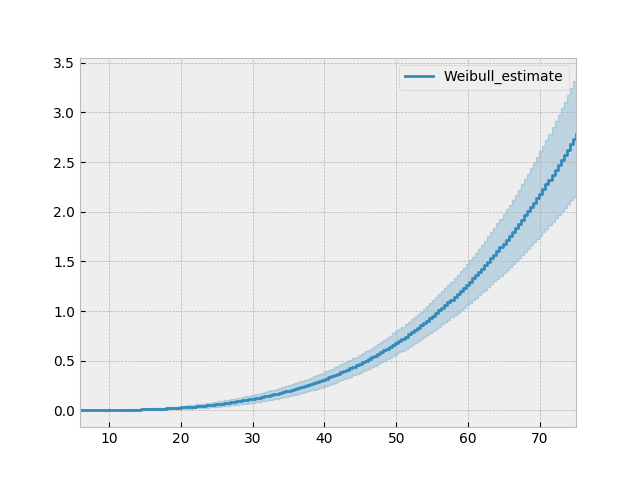
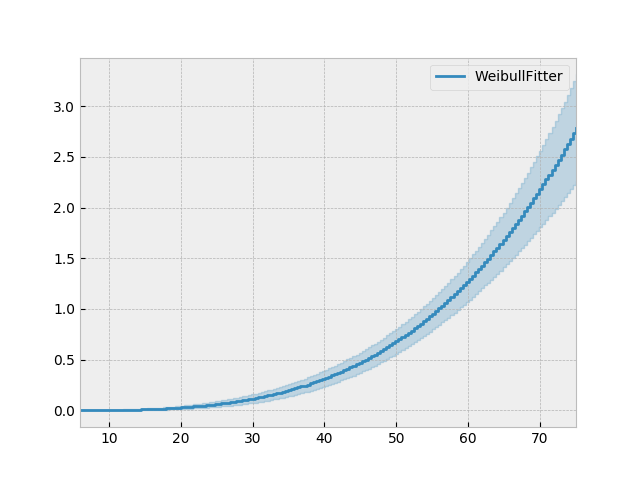
lint

diff --git a/lifelines/fitters/log_normal_fitter.py b/lifelines/fitters/log_normal_fitter.py
@@ -1,11 +1,10 @@
 # -*- coding: utf-8 -*-
 from __future__ import print_function
-import time
 import numpy as np
 import pandas as pd
 import warnings
 import autograd.numpy as autograd_np
-from autograd import jacobian, hessian, elementwise_grad as egrad
+from autograd import hessian, value_and_grad
 from autograd.scipy.stats import norm as autograd_norm
 from scipy.stats import norm
 from numpy.linalg import inv
@@ -33,12 +32,12 @@ def _negative_log_likelihood(params, log_T, E):
     Z = (log_T - mu) / sigma
     cdf = autograd_norm.cdf(Z, loc=0, scale=1)
     cdf = autograd_np.clip(cdf, 1e-15, 1 - 1e-15)
-    log_sf = autograd_np.log(1-cdf)
+    log_sf = autograd_np.log(1 - cdf)
 
     log_pdf = autograd_norm.logpdf(Z, loc=0, scale=1)
 
     ll = (E * (log_pdf - log_T - autograd_np.log(sigma) - log_sf)).sum() + log_sf.sum()
-    return -ll/n 
+    return -ll / n
 
 
 class LogNormalFitter(UnivariateFitter):
@@ -62,7 +61,14 @@ class LogNormalFitter(UnivariateFitter):
     """
 
     def fit(
-        self, durations, event_observed=None, timeline=None, label="LogNormal_estimate", alpha=0.95, ci_labels=None
+        self,
+        durations,
+        event_observed=None,
+        timeline=None,
+        label="LogNormal_estimate",
+        alpha=0.95,
+        ci_labels=None,
+        show_progress=False,
     ):  # pylint: disable=too-many-arguments
         """
         Parameters
@@ -113,11 +119,10 @@ class LogNormalFitter(UnivariateFitter):
         self._label = label
 
         (self.mu_, self.log_sigma_), self._log_likelihood, self._hessian_ = self._fit_model(
-            self.durations, self.event_observed
+            self.durations, self.event_observed, show_progress=show_progress
         )
         self.sigma_ = np.exp(self.log_sigma_)
         self.variance_matrix_ = inv(self._hessian_)
-
 
         self.survival_function_ = self.survival_function_at_times(self.timeline).to_frame(name=self._label)
         self.hazard_ = self.hazard_at_times(self.timeline).to_frame(name=self._label)
@@ -160,40 +165,31 @@ class LogNormalFitter(UnivariateFitter):
         """
         return pd.Series(1 - norm.cdf((log(times) - self.mu_) / self.sigma_), index=_to_array(times))
 
-    @staticmethod
-    def _cumulative_hazard_(params, t):
-        mu_, log_sigma_ = params
-        Z = (autograd_np.log(t) - mu_) / autograd_np.exp(log_sigma_)
-        cdf = autograd_norm.cdf(Z, loc=0, scale=1)
-        x = -autograd_np.log(1 - cdf)
-        return x
-
     def cumulative_hazard_at_times(self, times):
-        return pd.Series(self._cumulative_hazard_([self.mu_, self.log_sigma_], times), index=_to_array(times))
+        return pd.Series(-log(1 - norm.cdf((log(times) - self.mu_) / self.sigma_)), index=_to_array(times))
 
-    def _fit_model(self, T, E, initial_values=None):
+    def _fit_model(self, T, E, initial_values=None, show_progress=False):
         if initial_values is None:
             initial_values = np.array([log(T).mean(), np.log(np.log(T).std())])
 
-        n = T.shape[0]
+        with warnings.catch_warnings():
+            warnings.simplefilter("ignore")
 
-        jac = jacobian(_negative_log_likelihood)
-        hess =  hessian(_negative_log_likelihood)
-        
-        results = minimize(
-            _negative_log_likelihood,
-            initial_values,
-            jac=jac,
-            hess= hess,
-            method='Newton-CG',
-            args=(log(T), E),
-            options={'disp': False}
-        )  
+            results = minimize(
+                value_and_grad(_negative_log_likelihood),
+                initial_values,
+                jac=True,
+                method="CG",
+                args=(log(T), E),
+                options={"disp": show_progress},
+            )
 
-        if results.success:
-            hessian_ = hess(results.x, log(T), E)
-            return results.x, -results.fun, hessian_ * n
-        raise ConvergenceError("Did not converge. This is a lifelines problem, not yours;")
+            if results.success:
+                hess = hessian(_negative_log_likelihood)
+                hessian_ = hess(results.x, log(T), E)
+                return results.x, -results.fun, hessian_ * T.shape[0]
+            print(results)
+            raise ConvergenceError("Did not converge. This is a lifelines problem, not yours;")
 
     @property
     def summary(self):
@@ -247,10 +243,10 @@ class LogNormalFitter(UnivariateFitter):
         print(df.to_string(float_format=format_floats(decimals), formatters={"p": format_p_value(decimals)}))
 
     def _compute_standard_errors(self):
-        var_mu_, var_log_sigma_ = self.variance_matrix_.diagonal()
         grad_h_beta = np.array([0, self.sigma_])
         var_sigma_ = grad_h_beta.dot(self.variance_matrix_).dot(grad_h_beta.T)
 
+        var_mu_, _ = self.variance_matrix_.diagonal()
         return pd.DataFrame([[np.sqrt(var_mu_), np.sqrt(var_sigma_)]], index=["se"], columns=["mu_", "sigma_"])
 
     def _compute_confidence_bounds_of_parameters(self):
@@ -273,11 +269,25 @@ class LogNormalFitter(UnivariateFitter):
     def _bounds(self, alpha, ci_labels):
         alpha2 = inv_normal_cdf((1.0 + alpha) / 2.0)
         df = pd.DataFrame(index=self.timeline)
-        import pdb
-        pdb.set_trace()
-        gradient_at_mle = jacobian(self._cumulative_hazard_)(np.array([self.mu_, self.log_sigma_]), self.timeline)
 
-        std_cumulative_hazard = np.sqrt(np.einsum('nj,jk,nk->n', gradient_at_mle, self.variance_matrix_, gradient_at_mle))
+        def _d_cumulative_hazard_d_mu(mu_, log_sigma_, log_T):
+            Z = (log_T - mu_) / np.exp(log_sigma_)
+            return -norm.pdf(Z) / norm.sf(Z) / np.exp(log_sigma_)
+
+        def _d_cumulative_hazard_d_log_sigma(mu_, log_sigma_, log_T):
+            Z = (log_T - mu_) / np.exp(log_sigma_)
+            return -Z * norm.pdf(Z) / norm.sf(Z)
+
+        gradient_at_mle = np.stack(
+            [
+                _d_cumulative_hazard_d_mu(self.mu_, self.log_sigma_, log(self.timeline)),
+                _d_cumulative_hazard_d_log_sigma(self.mu_, self.log_sigma_, log(self.timeline)),
+            ]
+        ).T
+
+        std_cumulative_hazard = np.sqrt(
+            np.einsum("nj,jk,nk->n", gradient_at_mle, self.variance_matrix_, gradient_at_mle)
+        )
 
         if ci_labels is None:
             ci_labels = ["%s_upper_%.2f" % (self._label, alpha), "%s_lower_%.2f" % (self._label, alpha)]

diff --git a/lifelines/fitters/weibull_fitter.py b/lifelines/fitters/weibull_fitter.py
@@ -1,15 +1,14 @@
 # -*- coding: utf-8 -*-
 from __future__ import print_function, division
 import warnings
-import time
 import numpy as np
 import pandas as pd
 import autograd.numpy as autograd_np
-from autograd import hessian, jacobian
-from scipy.optimize import minimize, check_grad
+from autograd import hessian, value_and_grad
+from scipy.optimize import minimize
 
 from scipy import stats
-from numpy.linalg import solve, norm, inv
+from numpy.linalg import inv
 from lifelines.fitters import UnivariateFitter
 from lifelines.utils import (
     _to_array,
@@ -17,19 +16,21 @@ from lifelines.utils import (
     check_nans_or_infs,
     ConvergenceError,
     string_justify,
-    ConvergenceWarning,
     format_p_value,
     format_floats,
 )
 
 
-
 def _negative_log_likelihood(lambda_rho, T, E):
     if np.any(np.asarray(lambda_rho) < 0):
-        return 10e9
+        return 1e9
     n = T.shape[0]
     lambda_, rho = lambda_rho
-    neg_ll = -autograd_np.log(rho * lambda_) * E.sum() - (rho - 1) * (E * autograd_np.log(lambda_ * T)).sum() + ((lambda_ * T) ** rho).sum()
+    neg_ll = (
+        -autograd_np.log(rho * lambda_) * E.sum()
+        - (rho - 1) * (E * autograd_np.log(lambda_ * T)).sum()
+        + ((lambda_ * T) ** rho).sum()
+    )
     return neg_ll / n
 
 
@@ -75,7 +76,7 @@ class WeibullFitter(UnivariateFitter):
         label="Weibull_estimate",
         alpha=None,
         ci_labels=None,
-        show_progress=True,
+        show_progress=False,
     ):  # pylint: disable=too-many-arguments
         """
         Parameters
@@ -129,24 +130,19 @@ class WeibullFitter(UnivariateFitter):
         alpha = alpha if alpha is not None else self.alpha
 
         # estimation
-        (self.lambda_, self.rho_), self._log_likelihood, self._hessian_ = self._newton_rhaphson(
+        (self.lambda_, self.rho_), self._log_likelihood, self._hessian_ = self._fit_model(
             self.durations, self.event_observed, show_progress=show_progress
         )
         self.variance_matrix_ = inv(self._hessian_)
 
-        print("here1")
         self.survival_function_ = self.survival_function_at_times(self.timeline).to_frame(name=self._label)
-        print("here2")
 
         self.hazard_ = self.hazard_at_times(self.timeline).to_frame(self._label)
-        print("here3")
 
         self.cumulative_hazard_ = self.cumulative_hazard_at_times(self.timeline).to_frame(self._label)
-        print("here4")
 
         self.confidence_interval_ = self._bounds(alpha, ci_labels)
         self.median_ = 1.0 / self.lambda_ * (np.log(2)) ** (1.0 / self.rho_)
-        print("here5")
 
         # estimation methods
         self._estimate_name = "cumulative_hazard_"
@@ -167,53 +163,54 @@ class WeibullFitter(UnivariateFitter):
     def survival_function_at_times(self, times):
         return pd.Series(np.exp(-self.cumulative_hazard_at_times(times)), index=_to_array(times))
 
-    @staticmethod
-    def _cumulative_hazard_(params, t):
-        lambda_, rho_ = params
-        return (lambda_ * t) ** rho_
-
     def cumulative_hazard_at_times(self, times):
-        return pd.Series(self._cumulative_hazard_([self.lambda_, self.rho_], times), index=_to_array(times))
+        lambda_, rho_ = self.lambda_, self.rho_
+        return pd.Series((lambda_ * times) ** rho_, index=_to_array(times))
 
-
-    def _newton_rhaphson(self, T, E, show_progress=True):
+    def _fit_model(self, T, E, show_progress=True):
         from lifelines.utils import _smart_search
-        
-        initial_values = np.array([T.mean(), T.mean()])
-        initial_values = _smart_search(_negative_log_likelihood, 2, T, E)
-        print(initial_values)
+
+        initial_values = 1.1 * _smart_search(_negative_log_likelihood, 2, T, E)
         n = T.shape[0]
 
-        jac = jacobian(_negative_log_likelihood)
-        hess =  hessian(_negative_log_likelihood)
-        
-        results = minimize(
-            _negative_log_likelihood,
-            initial_values,
-            jac=jac,
-            hess= hess,
-            method='Newton-CG',
-            args=(T, E),
-            options={'disp': show_progress}
-        )  
+        with warnings.catch_warnings():
+            warnings.simplefilter("ignore")
 
-        if results.success:
-            hessian_ = hess(results.x, T, E)
-            return results.x, -results.fun, hessian_ * n
-        raise ConvergenceError("Did not converge. This is a lifelines problem, not yours;")
+            results = minimize(
+                value_and_grad(_negative_log_likelihood),
+                initial_values,
+                jac=True,
+                method="CG",
+                args=(T, E),
+                options={"disp": show_progress},
+            )
 
+            if results.success:
+                hessian_ = hessian(_negative_log_likelihood)(results.x, T, E)
+                return results.x, -results.fun, hessian_ * n
+            print(results)
+            raise ConvergenceError("Did not converge. This is a lifelines problem, not yours;")
 
     def _bounds(self, alpha, ci_labels):
         alpha2 = inv_normal_cdf((1.0 + alpha) / 2.0)
         df = pd.DataFrame(index=self.timeline)
-        import pdb
-        pdb.set_trace()
-        gradient_at_mle = jacobian(self._cumulative_hazard_)(np.array([self.lambda_, self.rho_]), self.timeline)
 
-        print("here")
-        std_cumulative_hazard = np.sqrt(np.einsum('nj,jk,nk->n', gradient_at_mle, self.variance_matrix_, gradient_at_mle))
-        print("here")
+        def _d_cumulative_hazard_d_lambda(lambda_, rho_, T):
+            return rho_ / lambda_ * (lambda_ * T) ** rho_
 
+        def _d_cumulative_hazard_d_rho(lambda_, rho_, T):
+            return np.log(lambda_ * T) * (lambda_ * T) ** rho_
+
+        gradient_at_mle = np.stack(
+            [
+                _d_cumulative_hazard_d_lambda(self.lambda_, self.rho_, self.timeline),
+                _d_cumulative_hazard_d_rho(self.lambda_, self.rho_, self.timeline),
+            ]
+        ).T
+
+        std_cumulative_hazard = np.sqrt(
+            np.einsum("nj,jk,nk->n", gradient_at_mle, self.variance_matrix_, gradient_at_mle)
+        )
 
         if ci_labels is None:
             ci_labels = ["%s_upper_%.2f" % (self._label, alpha), "%s_lower_%.2f" % (self._label, alpha)]

diff --git a/tests/test_estimation.py b/tests/test_estimation.py
@@ -199,8 +199,6 @@ class TestUnivariateFitters:
         T = x - x
         for fitter in univariate_fitters:
             with pytest.raises(ValueError, match="timedelta"):
-                print(T.dtype)
-                print(T)
                 fitter().fit(T)
 
     def test_predict_methods_returns_a_scalar_or_a_array_depending_on_input(
@@ -421,7 +419,6 @@ class TestLogNormal:
     def test_lnf_inference_with_large_sigma(self, lnf):
         N = 250000
         mu = 4.94
-        print(mu)
         sigma = 12
 
         X, C = np.exp(sigma * np.random.randn(N) + mu), np.exp(np.random.randn(N) + mu)
@@ -436,7 +433,6 @@ class TestLogNormal:
     def test_lnf_inference_with_small_sigma(self, lnf):
         N = 25000
         mu = 3
-        print(mu)
         sigma = 0.04
 
         X, C = np.exp(sigma * np.random.randn(N) + mu), np.exp(np.random.randn(N) + mu)
@@ -451,7 +447,6 @@ class TestLogNormal:
     def test_lnf_inference_with_really_small_sigma(self, lnf):
         N = 250000
         mu = 3 * np.random.randn()
-        print(mu)
         sigma = 0.02
 
         X, C = np.exp(sigma * np.random.randn(N) + mu), np.exp(np.random.randn(N) + mu)
@@ -2695,19 +2690,6 @@ class TestCoxTimeVaryingFitter:
         ctv.fit(dfcv, id_col="id", start_col="start", stop_col="stop", event_col="event", weights_col="weights")
         npt.assert_almost_equal(ctv.summary["coef"].values, [0.313, 0.423], decimal=3)
         npt.assert_almost_equal(ctv.summary["se(coef)"].values, [1.542, 1.997], decimal=3)
-
-    @pytest.mark.xfail()
-    def test_fitter_will_raise_an_error_if_overlapping_intervals(self, ctv):
-        df = pd.DataFrame.from_records(
-            [
-                {"id": 1, "start": 0, "stop": 10, "var": 1.0, "event": 0},
-                {"id": 1, "start": 5, "stop": 10, "var": 1.0, "event": 0},
-            ]
-        )
-
-        with pytest.warns(ConvergenceWarning) as w:
-            with pytest.raises(ConvergenceError):
-                ctv.fit(df, id_col="id", start_col="start", stop_col="stop", event_col="event")
 
     def test_fitter_will_raise_an_error_if_immediate_death_present(self, ctv):
         df = pd.DataFrame.from_records([{"id": 1, "start": 0, "stop": 0, "var": 1.0, "event": 1}])

diff --git a/setup.py b/setup.py
@@ -35,6 +35,6 @@ setup(
         "Programming Language :: Python :: 3.7",
         "Topic :: Scientific/Engineering",
     ],
-    install_requires=["numpy>=1.6.0", "scipy>=1.0", "pandas>=0.18", "matplotlib>=2.0,<3.0", "bottleneck>=1.0"],
+    install_requires=["numpy>=1.6.0", "scipy>=1.0", "pandas>=0.18", "matplotlib>=2.0,<3.0", "bottleneck>=1.0", "autograd>=1.2"],
     package_data={"lifelines": ["../README.md", "../README.txt", "../LICENSE", "../MANIFEST.in", "datasets/*"]},
 )
